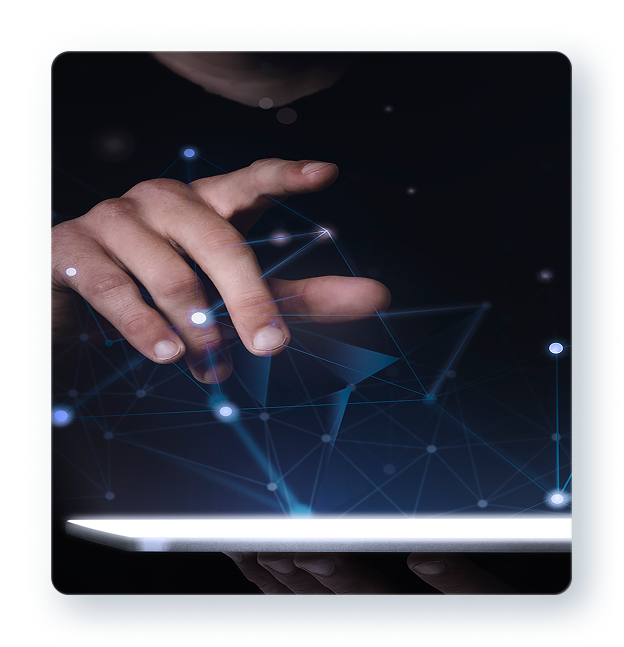
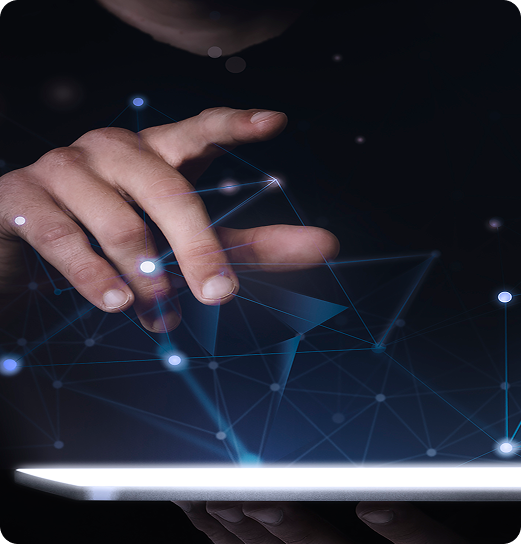
Style: make form container background full-width and update hero image

diff --git a/src/pages/digital-transformation/DigitalTransformationPage.tsx b/src/pages/digital-transformation/DigitalTransformationPage.tsx
@@ -150,105 +150,105 @@ export function DigitalTransformationPage() {
             </p>
           </div>
 
-          {/* 5. Custom Assessment Form Section */}
-          <div 
-            className="max-w-[760px] mx-auto rounded-[30px] p-8 sm:p-12 text-white shadow-[0_20px_50px_rgba(0,0,0,0.3)] border border-white/10 relative overflow-hidden bg-cover bg-center"
-            style={{ backgroundImage: "url('/assets/sfondo_form.png')" }}
-          >
-            
-            {/* Ambient inner glow */}
-            <div className="absolute -top-40 -right-40 size-80 bg-brand-light-blue/10 rounded-full blur-[80px] pointer-events-none" />
+        </div> {/* Chiude container-page */}
 
-            <div className="relative z-10 text-center mb-8">
-              <h2 className="text-3xl sm:text-[2.1rem] font-light mb-2 text-white tracking-tight">
-                Richiedi il tuo assessment
-              </h2>
-              <p className="text-sm sm:text-base text-brand-light-blue/80 font-normal">
-                Compila il form e prenota il tuo appuntamento
-              </p>
-            </div>
+        {/* 5. Custom Assessment Form Section (Full Width Background) */}
+        <div className="w-full relative bg-cover bg-center py-20" style={{ backgroundImage: "url('/assets/sfondo_form.png')" }}>
+          <div className="container-page relative z-10">
+            <div className="max-w-[760px] mx-auto rounded-[30px] p-8 sm:p-12 text-white shadow-[0_20px_50px_rgba(0,0,0,0.3)] border border-white/10 relative overflow-hidden bg-brand-dark-navy/60 backdrop-blur-lg">
+              
+              {/* Ambient inner glow */}
+              <div className="absolute -top-40 -right-40 size-80 bg-brand-light-blue/10 rounded-full blur-[80px] pointer-events-none" />
 
-            {submitted ? (
-              <div className="text-center py-12 flex flex-col items-center justify-center">
-                <div className="size-16 rounded-full bg-brand-light-blue/20 flex items-center justify-center mb-4 border border-brand-light-blue/40">
-                  <svg className="size-8 text-brand-light-blue" fill="none" stroke="currentColor" viewBox="0 0 24 24">
-                    <path strokeLinecap="round" strokeLinejoin="round" strokeWidth="2.5" d="M5 13l4 4L19 7" />
-                  </svg>
-                </div>
-                <h3 className="text-2xl font-semibold mb-2">Richiesta Inviata!</h3>
-                <p className="text-brand-light-blue/80">Grazie, ti contatteremo il prima possibile per fissare l'assessment.</p>
+              <div className="relative z-10 text-center mb-8">
+                <h2 className="text-3xl sm:text-[2.1rem] font-light mb-2 text-white tracking-tight">
+                  Richiedi il tuo assessment
+                </h2>
+                <p className="text-sm sm:text-base text-brand-light-blue/80 font-normal">
+                  Compila il form e prenota il tuo appuntamento
+                </p>
               </div>
-            ) : (
-              <form onSubmit={handleSubmit} className="space-y-4">
-                <div className="grid grid-cols-1 sm:grid-cols-2 gap-4">
-                  <div className="flex flex-col">
+
+              {submitted ? (
+                <div className="text-center py-12 flex flex-col items-center justify-center">
+                  <div className="size-16 rounded-full bg-brand-light-blue/20 flex items-center justify-center mb-4 border border-brand-light-blue/40">
+                    <svg className="size-8 text-brand-light-blue" fill="none" stroke="currentColor" viewBox="0 0 24 24">
+                      <path strokeLinecap="round" strokeLinejoin="round" strokeWidth="2.5" d="M5 13l4 4L19 7" />
+                    </svg>
+                  </div>
+                  <h3 className="text-2xl font-semibold mb-2">Richiesta Inviata!</h3>
+                  <p className="text-brand-light-blue/80">Grazie, ti contatteremo il prima possibile per fissare l'assessment.</p>
+                </div>
+              ) : (
+                <form onSubmit={handleSubmit} className="space-y-4 relative z-10">
+                  <div className="grid grid-cols-1 sm:grid-cols-2 gap-4">
+                    <div className="flex flex-col">
+                      <input
+                        type="text"
+                        placeholder="Last Name"
+                        required
+                        value={formData.lastName}
+                        onChange={(e) => setFormData({ ...formData, lastName: e.target.value })}
+                        className="w-full bg-white/[0.05] border border-white/20 rounded-[12px] px-5 py-3.5 text-white placeholder-white/40 focus:outline-none focus:border-brand-light-blue transition-colors text-sm"
+                      />
+                    </div>
+                    <div className="flex flex-col">
+                      <input
+                        type="text"
+                        placeholder="First Name"
+                        required
+                        value={formData.firstName}
+                        onChange={(e) => setFormData({ ...formData, firstName: e.target.value })}
+                        className="w-full bg-white/[0.05] border border-white/20 rounded-[12px] px-5 py-3.5 text-white placeholder-white/40 focus:outline-none focus:border-brand-light-blue transition-colors text-sm"
+                      />
+                    </div>
+                  </div>
+
+                  <div>
                     <input
-                      type="text"
-                      placeholder="Last Name"
+                      type="email"
+                      placeholder="Email"
                       required
-                      value={formData.lastName}
-                      onChange={(e) => setFormData({ ...formData, lastName: e.target.value })}
+                      value={formData.email}
+                      onChange={(e) => setFormData({ ...formData, email: e.target.value })}
                       className="w-full bg-white/[0.05] border border-white/20 rounded-[12px] px-5 py-3.5 text-white placeholder-white/40 focus:outline-none focus:border-brand-light-blue transition-colors text-sm"
                     />
                   </div>
-                  <div className="flex flex-col">
+
+                  <div>
                     <input
-                      type="text"
-                      placeholder="First Name"
+                      type="tel"
+                      placeholder="Phone Number"
                       required
-                      value={formData.firstName}
-                      onChange={(e) => setFormData({ ...formData, firstName: e.target.value })}
+                      value={formData.phone}
+                      onChange={(e) => setFormData({ ...formData, phone: e.target.value })}
                       className="w-full bg-white/[0.05] border border-white/20 rounded-[12px] px-5 py-3.5 text-white placeholder-white/40 focus:outline-none focus:border-brand-light-blue transition-colors text-sm"
                     />
                   </div>
-                </div>
 
-                <div>
-                  <input
-                    type="email"
-                    placeholder="Email"
-                    required
-                    value={formData.email}
-                    onChange={(e) => setFormData({ ...formData, email: e.target.value })}
-                    className="w-full bg-white/[0.05] border border-white/20 rounded-[12px] px-5 py-3.5 text-white placeholder-white/40 focus:outline-none focus:border-brand-light-blue transition-colors text-sm"
-                  />
-                </div>
+                  <div>
+                    <textarea
+                      placeholder="Message"
+                      rows={4}
+                      required
+                      value={formData.message}
+                      onChange={(e) => setFormData({ ...formData, message: e.target.value })}
+                      className="w-full bg-white/[0.05] border border-white/20 rounded-[12px] px-5 py-3.5 text-white placeholder-white/40 focus:outline-none focus:border-brand-light-blue transition-colors text-sm resize-none"
+                    />
+                  </div>
 
-                <div>
-                  <input
-                    type="tel"
-                    placeholder="Phone Number"
-                    required
-                    value={formData.phone}
-                    onChange={(e) => setFormData({ ...formData, phone: e.target.value })}
-                    className="w-full bg-white/[0.05] border border-white/20 rounded-[12px] px-5 py-3.5 text-white placeholder-white/40 focus:outline-none focus:border-brand-light-blue transition-colors text-sm"
-                  />
-                </div>
-
-                <div>
-                  <textarea
-                    placeholder="Message"
-                    rows={4}
-                    required
-                    value={formData.message}
-                    onChange={(e) => setFormData({ ...formData, message: e.target.value })}
-                    className="w-full bg-white/[0.05] border border-white/20 rounded-[12px] px-5 py-3.5 text-white placeholder-white/40 focus:outline-none focus:border-brand-light-blue transition-colors text-sm resize-none"
-                  />
-                </div>
-
-                <div className="pt-2">
-                  <button
-                    type="submit"
-                    className="w-full bg-[#013167] text-white hover:bg-brand-light-blue hover:text-brand-dark-navy transition-all duration-300 font-semibold py-4 rounded-[12px] shadow-[0_4px_15px_rgba(0,0,0,0.2)] hover:-translate-y-0.5 border border-white/10 cursor-pointer"
-                  >
-                    Invia Richiesta
-                  </button>
-                </div>
-              </form>
-            )}
-
+                  <div className="pt-2">
+                    <button
+                      type="submit"
+                      className="w-full bg-[#013167] text-white hover:bg-brand-light-blue hover:text-brand-dark-navy transition-all duration-300 font-semibold py-4 rounded-[12px] shadow-[0_4px_15px_rgba(0,0,0,0.2)] hover:-translate-y-0.5 border border-white/10 cursor-pointer"
+                    >
+                      Invia Richiesta
+                    </button>
+                  </div>
+                </form>
+              )}
+            </div>
           </div>
-
         </div>
       </main>
 
